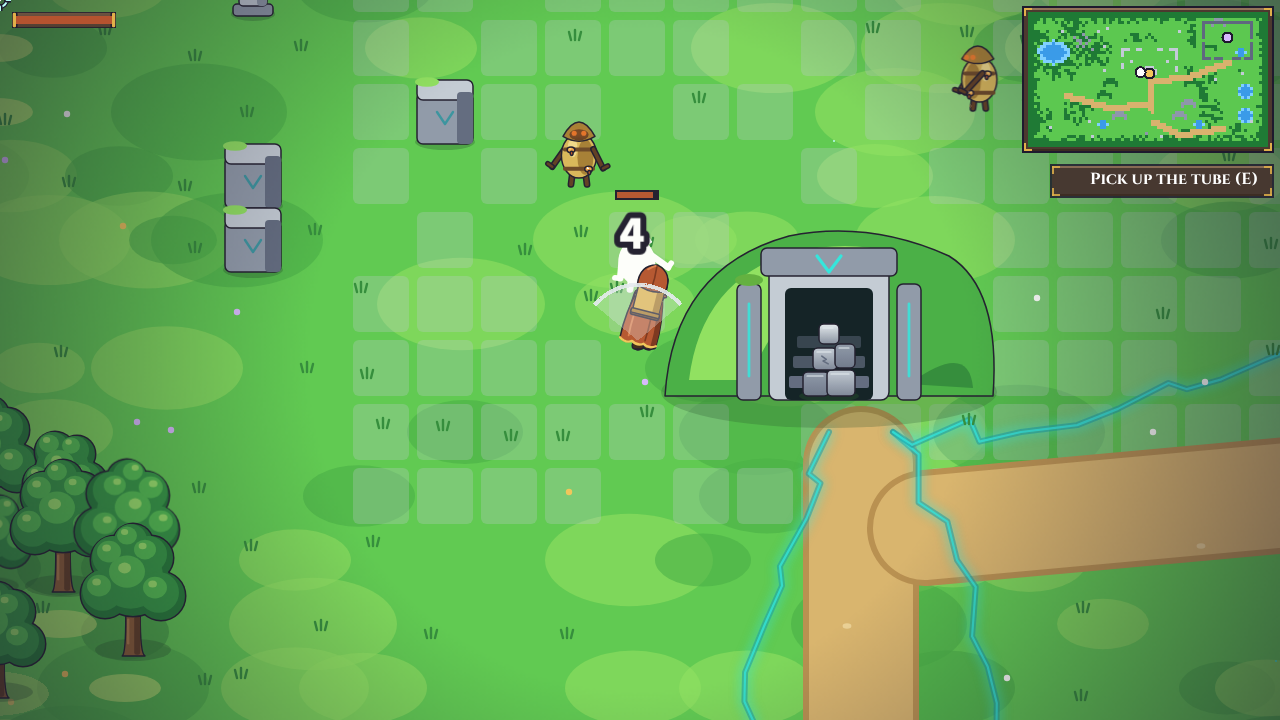
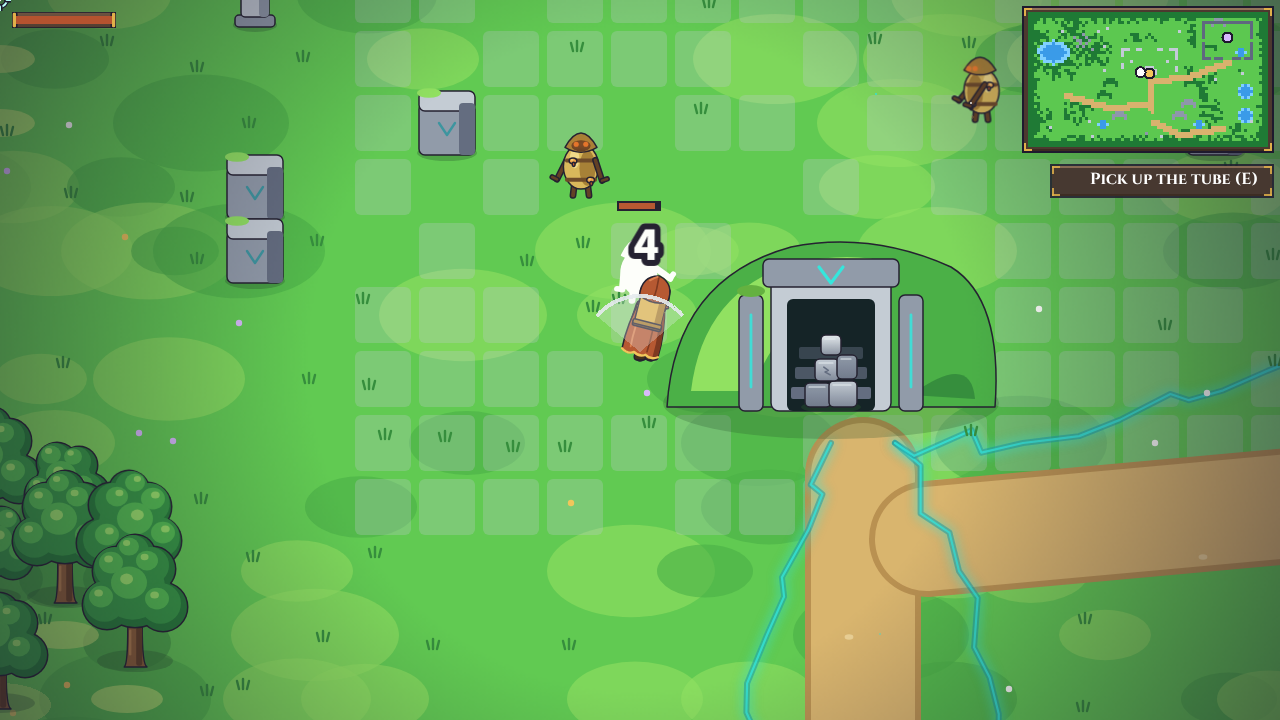
023: review follow-ups
Jab poses read WANDERER_FEEL.jab; isFiringHeavy inlined as tube.firing;
stale dry-fire comment gone; a punch's hit events are marked so only
those skip the arrow hit sound; review shots wait for the camera to
settle instead of a fixed wait.

Claude-Session: https://claude.ai/code/session_019emckfuk4AmLgqPgaDD5WF

diff --git a/tests/e2e/melee.spec.ts b/tests/e2e/melee.spec.ts
@@ -40,6 +40,19 @@ function punchNearestHusk(page: Page, settle: number) {
   }, settle);
 }
 
+/** Waits until the camera, easing after the player in real time, has come to rest. */
+async function cameraSettled(page: Page): Promise<void> {
+  let last = { x: NaN, y: NaN };
+  await expect
+    .poll(async () => {
+      const cam = (await page.evaluate(() => window.__GAME__?.ui()))?.camera ?? { x: NaN, y: NaN };
+      const still = Math.hypot(cam.x - last.x, cam.y - last.y) < 0.5;
+      last = cam;
+      return still;
+    })
+    .toBe(true);
+}
+
 test('a punch before taking the tube hurts a Husk and knocks it away', async ({ page }) => {
   const errors = watchErrors(page);
   await boot(page, '');
@@ -67,8 +80,7 @@ test.describe('review screenshots (023)', () => {
     // Held on the punch's own tick: the jab is full and the swoosh holds (tweens stopped).
     const { punched } = await punchNearestHusk(page, 0);
     expect(punched.events.melees[0]?.hits.length).toBeGreaterThan(0);
-    // The camera eases after the player in real time (for the picture only).
-    await page.waitForTimeout(1500);
+    await cameraSettled(page);
     await expect.poll(async () => (await page.evaluate(() => window.__GAME__?.ui()))?.swooshes ?? 0).toBeGreaterThan(0);
     await page.screenshot({ path: `${SHOTS}/01-swoosh-fist.png` });
   });
@@ -84,8 +96,7 @@ test.describe('review screenshots (023)', () => {
       g.step(15 * 29 + 1, { fire: true, aimX: p.x + 100, aimY: p.y - 20 });
       g.step(15, { fire: true, aimX: p.x + 100, aimY: p.y - 20 });
     });
-    // The camera eases after the player in real time (for the picture only).
-    await page.waitForTimeout(1500);
+    await cameraSettled(page);
     await expect.poll(async () => (await page.evaluate(() => window.__GAME__?.ui()))?.swooshes ?? 0).toBeGreaterThan(0);
     await page.screenshot({ path: `${SHOTS}/02-swoosh-tube.png` });
   });

diff --git a/src/sim/tube.ts b/src/sim/tube.ts
@@ -24,7 +24,7 @@ export interface TubeState {
   fireCooldown: number;
   /** Ticks before the next punch can happen (023). */
   meleeCooldown: number;
-  /** Fire was held this tick with a round to fire, and the player could fire (not rolling): a punch isn't firing. */
+  /** The tube is really firing (016): fire held this tick with a round to fire, not rolling or in the foundry. A punch isn't firing. */
   firing: boolean;
   /** This tick's shot came from the reservoir. */
   fromReservoir: boolean;
@@ -72,12 +72,7 @@ export function hasRoundToFire(state: Pick<SimState, 'hasTube' | 'tube' | 'inven
 
 /** The walk multiplier from the tube (016): slower while it really fires, by last tick's state. */
 export function firingWalkScale(state: Pick<SimState, 'tube'>): number {
-  return isFiringHeavy(state.tube) ? FIRING_WALK_MULTIPLIER : 1;
-}
-
-/** The tube is really firing (016): fire held with a round to fire; not a punch, the foundry or a roll. */
-export function isFiringHeavy(tube: Pick<TubeState, 'firing'>): boolean {
-  return tube.firing;
+  return state.tube.firing ? FIRING_WALK_MULTIPLIER : 1;
 }
 
 /** Runs after the player has moved this tick, so shots leave from where they stand now. */
@@ -120,6 +115,7 @@ function fire(state: SimState, cmd: Command, dx: number, dy: number): void {
   if (tube.fireCooldown > 0) return;
   const ammo = ammoDef(tube.ammoId);
   const source = takeRound(state);
+  // Unreachable (the caller checked for a round), but it narrows the type.
   if (!source) return;
   tube.fireCooldown = ammo.fireTicks;
   tube.fromReservoir = source === 'reservoir';

diff --git a/src/render/vector/wandererPoses.ts b/src/render/vector/wandererPoses.ts
@@ -1,4 +1,4 @@
-import type { WandererView } from '../../data/art/wanderer';
+import { WANDERER_FEEL, type WandererView } from '../../data/art/wanderer';
 import { REST_POSE, type WandererPose } from './wandererRig';
 
 // Fixed wanderer poses for the contact sheet (016): what PlayerView produces live
@@ -19,7 +19,7 @@ export function sheetPoses(view: WandererView): { label: string; pose: WandererP
     { label: 'dormant', pose: { ...base, attuned: false, muzzle: 0 } },
     { label: 'attuning', pose: { ...base, attuned: false, attuning: 0.55 } },
     { label: 'no tube', pose: { ...base, hasTube: false } },
-    { label: 'tube jab', pose: { ...base, jab: 1, lean: 0.12, push: 2 } },
-    { label: 'punch', pose: { ...base, hasTube: false, jab: 1, lean: 0.12, push: 2 } },
+    { label: 'tube jab', pose: { ...base, jab: 1, lean: WANDERER_FEEL.jab.lean, push: WANDERER_FEEL.jab.push } },
+    { label: 'punch', pose: { ...base, hasTube: false, jab: 1, lean: WANDERER_FEEL.jab.lean, push: WANDERER_FEEL.jab.push } },
   ];
 }

diff --git a/src/sim/enemies.ts b/src/sim/enemies.ts
@@ -89,6 +89,8 @@ export interface HitStyle {
   flash: boolean;
   /** Recorded on the hit event so render can colour it; it changes no rule. */
   damageType: DamageType;
+  /** A punch (023): its hit event is marked so render plays the punch's thud for it. */
+  melee?: boolean;
 }
 
 const ARROW_HIT: HitStyle = { knock: true, flash: true, damageType: 'physical' };
@@ -107,7 +109,7 @@ export function damageEnemy(
   if (style.flash) e.flash = def.hitFlashTicks;
   if (style.knock) startKnock(e, dirX, dirY, def.hitKnockback, def.hitKnockTicks);
   if (e.mode === 'idle' || e.mode === 'return') aggro(e);
-  state.events.hits.push({ target: 'enemy', id: e.id, x: e.x, y: e.y, damage: amount, damageType: style.damageType });
+  state.events.hits.push({ target: 'enemy', id: e.id, x: e.x, y: e.y, damage: amount, damageType: style.damageType, ...(style.melee ? { melee: true as const } : {}) });
 }
 
 /** True if a ground point is inside the enemy's hurtbox. */

diff --git a/src/render/PlayerView.ts b/src/render/PlayerView.ts
@@ -11,7 +11,7 @@ import { aimFacing } from '../sim/direction';
 import { isRolling } from '../sim/movement';
 import type { Facing, PlayerState } from '../sim/player';
 import type { LinkState } from '../sim/link';
-import { isFiringHeavy, type TubeState } from '../sim/tube';
+import type { TubeState } from '../sim/tube';
 import { attuneBeat } from './attune';
 import { colorOf } from './color';
 import { textureScale } from './vector/textures';
@@ -108,7 +108,7 @@ export class PlayerView {
     const facing = rolling ? p.facing : aimFacing(p.aimX - p.x, p.aimY - p.y, p.facing);
     const view = viewOf(facing);
     const flip = facing === 'left';
-    const heavy = hasTube && isFiringHeavy(tube);
+    const heavy = hasTube && tube.firing;
     const shot = heavy && tube.shotCount > 0;
     const hit = p.hurtTicks > HIT_INVULN_TICKS - PLAYER_HIT_FX.poseTicks;
     const dying = p.dying > 0 ? 1 - p.dying / DYING_TICKS : 0;

diff --git a/src/render/FeelView.ts b/src/render/FeelView.ts
@@ -81,14 +81,10 @@ export class FeelView {
       if (key) s.play(key);
     }
     // A punch (023) thuds on a hit, or whiffs; its hits otherwise land like any other.
-    const punched = new Set<number>();
-    for (const m of ev.melees) {
-      s.play(m.hits.length > 0 ? SOUNDS.meleeHit : SOUNDS.meleeWhiff);
-      for (const id of m.hits) punched.add(id);
-    }
+    for (const m of ev.melees) s.play(m.hits.length > 0 ? SOUNDS.meleeHit : SOUNDS.meleeWhiff);
     for (const h of ev.hits) {
       if (h.target === 'enemy') {
-        if (!punched.has(h.id)) s.play(SOUNDS.hit);
+        if (!h.melee) s.play(SOUNDS.hit);
         s.play(SOUNDS.enemyHurt, SOUND_LEVELS.under);
         j.burst(h.damageType === 'fire' ? 'hitFire' : 'hitPhysical', h.x, h.y);
         j.damageNumber(h.damage, h.x, h.y, false);

diff --git a/tests/sim/melee.test.ts b/tests/sim/melee.test.ts
@@ -43,7 +43,7 @@ describe('the punch', () => {
     expect(ahead.health).toBe(enemyDef('husk').maxHealth - MELEE.damage);
     expect(behind.health).toBe(enemyDef('husk').maxHealth);
     expect(s.events.melees).toEqual([{ x: s.player.x, y: s.player.y, angle: 0, hits: [ahead.id] }]);
-    expect(s.events.hits).toEqual([expect.objectContaining({ target: 'enemy', id: ahead.id, damage: MELEE.damage, damageType: 'physical' })]);
+    expect(s.events.hits).toEqual([expect.objectContaining({ target: 'enemy', id: ahead.id, damage: MELEE.damage, damageType: 'physical', melee: true })]);
     expect(ahead.flash).toBeGreaterThan(0);
     expect(s.arrows).toHaveLength(0);
   });

diff --git a/src/sim/melee.ts b/src/sim/melee.ts
@@ -12,7 +12,7 @@ import { roomById, type SimState } from './state';
 // punch toward the cursor. It resolves on the tick it starts.
 
 /** A punch flashes and records physical damage; its knockback is its own, not the enemy's arrow knock. */
-const PUNCH_HIT: HitStyle = { knock: false, flash: true, damageType: 'physical' };
+const PUNCH_HIT: HitStyle = { knock: false, flash: true, damageType: 'physical', melee: true };
 
 /** The wall test walks the line this far at a time, px: well under a tile, so no wall is stepped over. */
 const LINE_STEP = TILE_SIZE / 8;

diff --git a/src/sim/events.ts b/src/sim/events.ts
@@ -9,7 +9,8 @@ import type { Facing } from './player';
 // between ticks and land in the list of the tick before.
 
 export type HitEvent =
-  | { target: 'enemy'; id: number; x: number; y: number; damage: number; damageType: DamageType }
+  /** `melee` marks a punch's hit (023). */
+  | { target: 'enemy'; id: number; x: number; y: number; damage: number; damageType: DamageType; melee?: true }
   | { target: 'player'; x: number; y: number; damage: number };
 
 export interface DeathEvent {

diff --git a/src/data/ammo.ts b/src/data/ammo.ts
@@ -9,7 +9,7 @@ interface AmmoBase {
   id: string;
   /** The inventory item a loaded round is made from. */
   itemId: string;
-  /** Minimum ticks between shots (and between dry fires) with this ammo. */
+  /** Minimum ticks between shots with this ammo. */
   fireTicks: number;
   damageType: DamageType;
   /** Atlas frames for the projectile (pointing right) and its ground shadow. */

diff --git a/src/render/GameScene.ts b/src/render/GameScene.ts
@@ -192,6 +192,7 @@ export class GameScene extends Scene {
       sliding: this.groundItemView?.sliding ?? 0,
       slideProgress: this.groundItemView?.slideProgress ?? 0,
       swooshes: this.effects?.swooshes ?? 0,
+      camera: { x: this.cameras.main.worldView.centerX, y: this.cameras.main.worldView.centerY },
     };
   }
 

diff --git a/src/render/testHook.ts b/src/render/testHook.ts
@@ -62,6 +62,8 @@ export interface UiState {
   slideProgress: number;
   /** Punch swooshes still drawn (023). */
   swooshes: number;
+  /** The centre of the world camera's view, world px (023: screenshots wait for it to settle on the player). */
+  camera: { x: number; y: number };
 }
 
 declare global {
